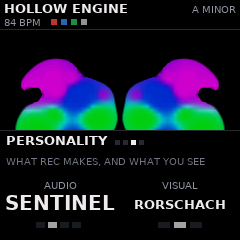
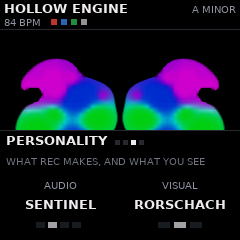
PERSONALITY page: every value in one font size
The values took the largest font that fitted, so SENTINEL and MATRIX
were big and DIPLOMAT, EXPLORER and RORSCHACH smaller. On this page they
all take the smaller one. The manual's screenshot retaken.

Claude-Session: https://claude.ai/code/session_01BZyVySDnxf9xQi9jonD4bJ

Changed region(s): [[0.0, 0.7875, 0.4958, 0.875]]

diff --git a/app/app.c b/app/app.c
@@ -1633,7 +1633,9 @@ static void draw_panel_rows(int y0)
         cv_text(cx - text_w(&FONT_XS, nm) / 2, y, &FONT_XS, nm, hot ? pc : C_SUB);
         char v[24]; knob_text(pg, k, v);
         int room = k < 3 && knob_of(pg, k + 1)->kind == K_NONE ? 112 : 56;   /* (the next column empty: its room too) */
-        const felucca_font_t *f = text_w(&FONT_M, v) <= room ? &FONT_M : text_w(&FONT_B, v) <= room + 2 ? &FONT_B : &FONT_XS;
+        const felucca_font_t *f = text_w(&FONT_M, v) <= room && pg != PG_VISUAL ? &FONT_M   /* (PERSONALITY's all one size:
+                                                                     * its longest names need the smaller) */
+                                : text_w(&FONT_B, v) <= room + 2 ? &FONT_B : &FONT_XS;
         if (text_w(f, v) > room + 2) v[9] = 0;
         int vx = cx - text_w(f, v) / 2;
         if (vx < 4) vx = 4;
